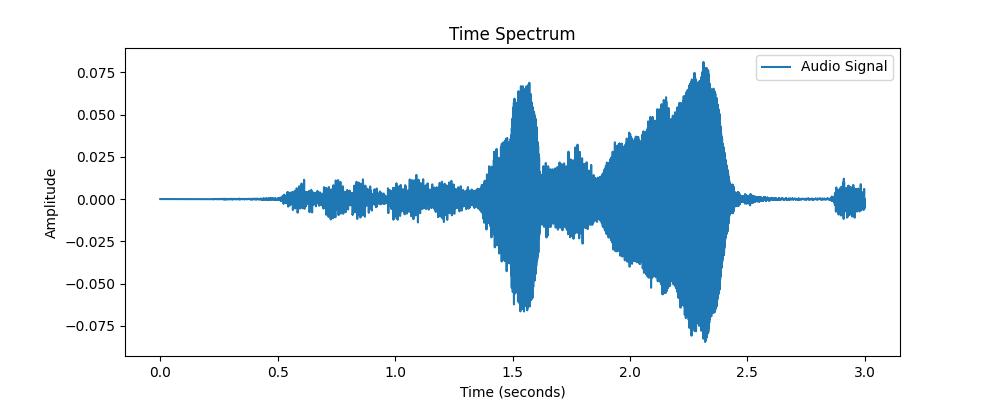
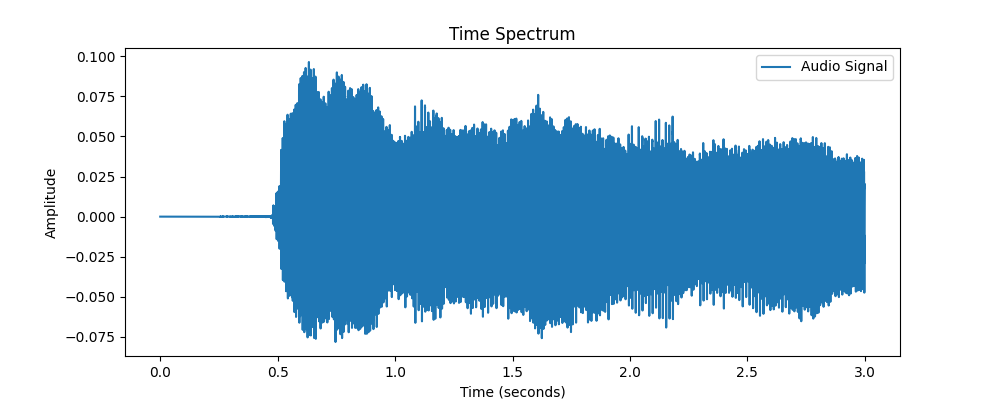
Fixed bugs in fractal_test and finalized spectral fractal generation from audio input

diff --git a/src/spectral_fractals/fractal_test.py b/src/spectral_fractals/fractal_test.py
@@ -5,7 +5,7 @@ import numpy as np
 import matplotlib.pyplot as plt
 import os
 
-FS = 44100 # Sample frequency
+FS = 44100 #Sample frequency
 
 def process_data():
     """
@@ -26,7 +26,7 @@ def process_data():
     masked_freqs, masked_magnitudes, peak_idx, time = data
     return data
 
-def produce_grid(grid_points=256):
+def produce_grid(grid_points=128):
     """
     This function produces n*n frequency space grid of the frequencies and magnitudes. 
     The grid points are determined by the grid_points parameter.
@@ -34,7 +34,7 @@ def produce_grid(grid_points=256):
     #Produce grid in frequency space
     nx = np.fft.fftfreq(grid_points)
     ny = np.fft.fftfreq(grid_points)
-    NX, NY = np.meshgrid(nx, ny) # [-0.5,0.5)
+    NX, NY = np.meshgrid(nx, ny) #[-0.5,0.5)
 
     #Define metric in frequency space 
     R = np.sqrt(NX**2 + NY**2) #[1e-8,0.707)
@@ -57,6 +57,7 @@ def map_domains(data):
     masked_freqs, masked_magnitudes, peak_idx, time = data #unpack data
 
     R = produce_grid(grid_points=256)
+    #R = np.fft.fftshift(R) #shift zero frequency to center of spectrum
 
     #handle case where R_scaled is None
     if R is None:
@@ -84,8 +85,8 @@ def map_domains(data):
         masked_freqs_sorted,
         norm_mask_magnitudes_sorted
     ).reshape(R_scaled.shape)
-    
-    return ampl_2d
+
+    return np.fft.fftshift(ampl_2d)
 
 def visualize_domain_mapping(ampl_2d):
     """
@@ -96,45 +97,57 @@ def visualize_domain_mapping(ampl_2d):
         print("No amplitude data to visualize.")
         return
     
-    plt.imshow(ampl_2d, cmap='viridis')
+    plt.imshow(ampl_2d, cmap="viridis")
     plt.colorbar()
     plt.title("Mapped Amplitude in Frequency Space")
     plt.xlabel("Frequency (normalized)")
     plt.ylabel("Frequency (normalized)")
     
-    #save the plot to tests/Plots/domain_mapping.png
-    folder_path = "tests/Plots"
+    #save the plot to spectral_fractals/Plots/domain_mapping.png
+    folder_path = "spectral_fractals/Plots"
     if not os.path.exists(folder_path):
         os.makedirs(folder_path)
     plt.savefig(os.path.join(folder_path, "domain_mapping.png"))
+    print("Domain mapping visualization saved to spectral_fractals/Plots/domain_mapping.png")
     plt.close()
 
+def generate_fractal(ampl_2d, beta=1.5):
+    #visualize the domain mapping for same data
+    visualize_domain_mapping(ampl_2d)
 
-# def generate_fractal(ampl_2d, beta=1):
-#     R = produce_grid(ampl_2d.shape[0])
+    #shape of ampl_2d is (gridpoints, gridpoints)
+    R = produce_grid(ampl_2d.shape[0]) 
+    R_shifted = np.fft.fftshift(R)
+    R_shifted[R_shifted==0] = 1e-8 #handle division by zero
+    fractal_scaling = ampl_2d*(1/R_shifted**beta)
 
-#     # fractal scaling
-#     amplitude = ampl_2d / (R ** beta)
+    #add random phase
+    phase = np.exp(2j * np.pi * np.random.rand(ampl_2d.shape[0], ampl_2d.shape[0]))
 
-#     # random phase
-#     phase = np.exp(2j * np.pi * np.random.rand(*amplitude.shape))
+    fractal_image = fractal_scaling * phase
 
-#     # complex spectrum
-#     F = amplitude * phase
+    #inverse FFT
+    img = np.fft.ifft2(fractal_image)
+    img_abs = np.abs(img)
 
-#     # inverse FFT
-#     img = np.fft.ifft2(F).real
+    #normalize
+    img_abs_norm = (img_abs - img_abs.min()) / (img_abs.max() - img_abs.min())
 
-#     # normalize
-#     img = (img - img.min()) / (img.max() - img.min())
+    plt.imshow(img_abs_norm, cmap="viridis")
+    plt.colorbar()
+    plt.title("Audio-driven fractal")
+    
+    #save the plot to spectral_fractals/Plots/domain_mapping.png
+    folder_path = "spectral_fractals/Plots"
+    if not os.path.exists(folder_path):
+        os.makedirs(folder_path)
+    plt.savefig(os.path.join(folder_path, "fractal.png"))
+    print("Fractal visualization saved to spectral_fractals/Plots/fractal.png")
+    plt.close()
 
-#     plt.imshow(img, cmap='viridis')
-#     plt.colorbar()
-#     plt.title("Audio-driven fractal")
-#     plt.show()
-
-#     return img
+    return fractal_scaling
 
 
 if __name__ == "__main__":
-    result = visualize_domain_mapping(map_domains(process_data()))
+    #result = visualize_domain_mapping(map_domains(process_data()))
+    result2 = generate_fractal(map_domains(process_data()), beta=2)
